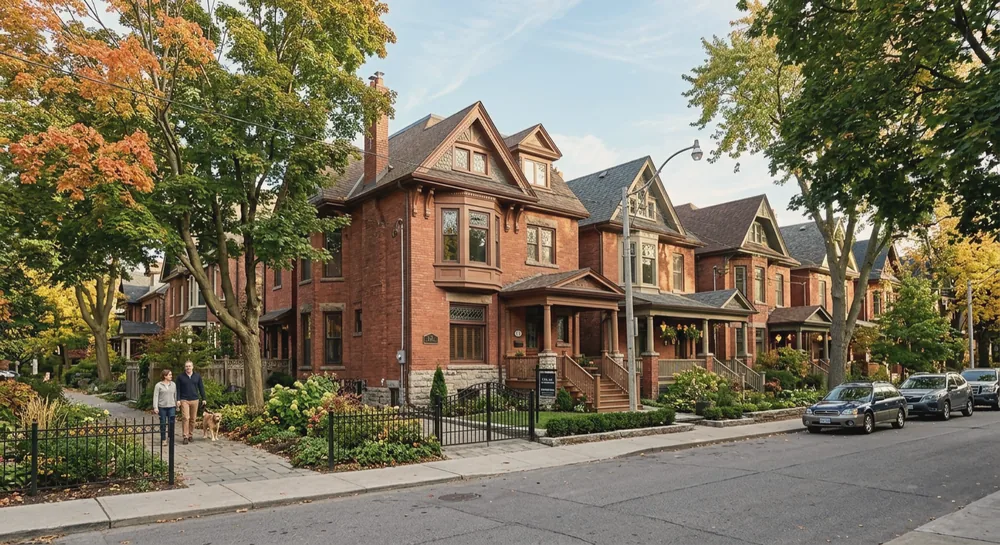
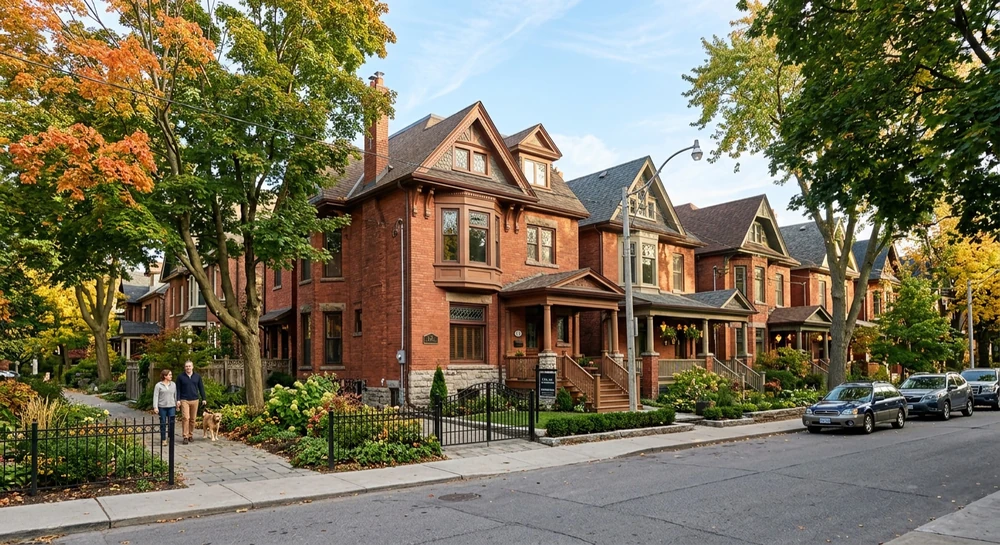
Sharpen Dispatch login slide photos
Re-encode login WebPs at higher quality from the photo masters and
widen sizes so retina picks the 1600w candidate.

diff --git a/web/src/components/LoginSlides.tsx b/web/src/components/LoginSlides.tsx
@@ -59,7 +59,7 @@ export function LoginSlides({ slides = DISPATCH_SLIDES }: { slides?: Slide[] }) 
               className="ls-img"
               src={`${s.src}-${WIDTHS[0]}.webp`}
               srcSet={WIDTHS.map((w) => `${s.src}-${w}.webp ${w}w`).join(', ')}
-              sizes="(min-width: 1810px) 760px, 42vw"
+              sizes="(min-width: 1810px) 760px, (min-width: 900px) 50vw, 100vw"
               alt={s.alt}
               decoding="async"
               loading={k === 0 ? 'eager' : 'lazy'}
